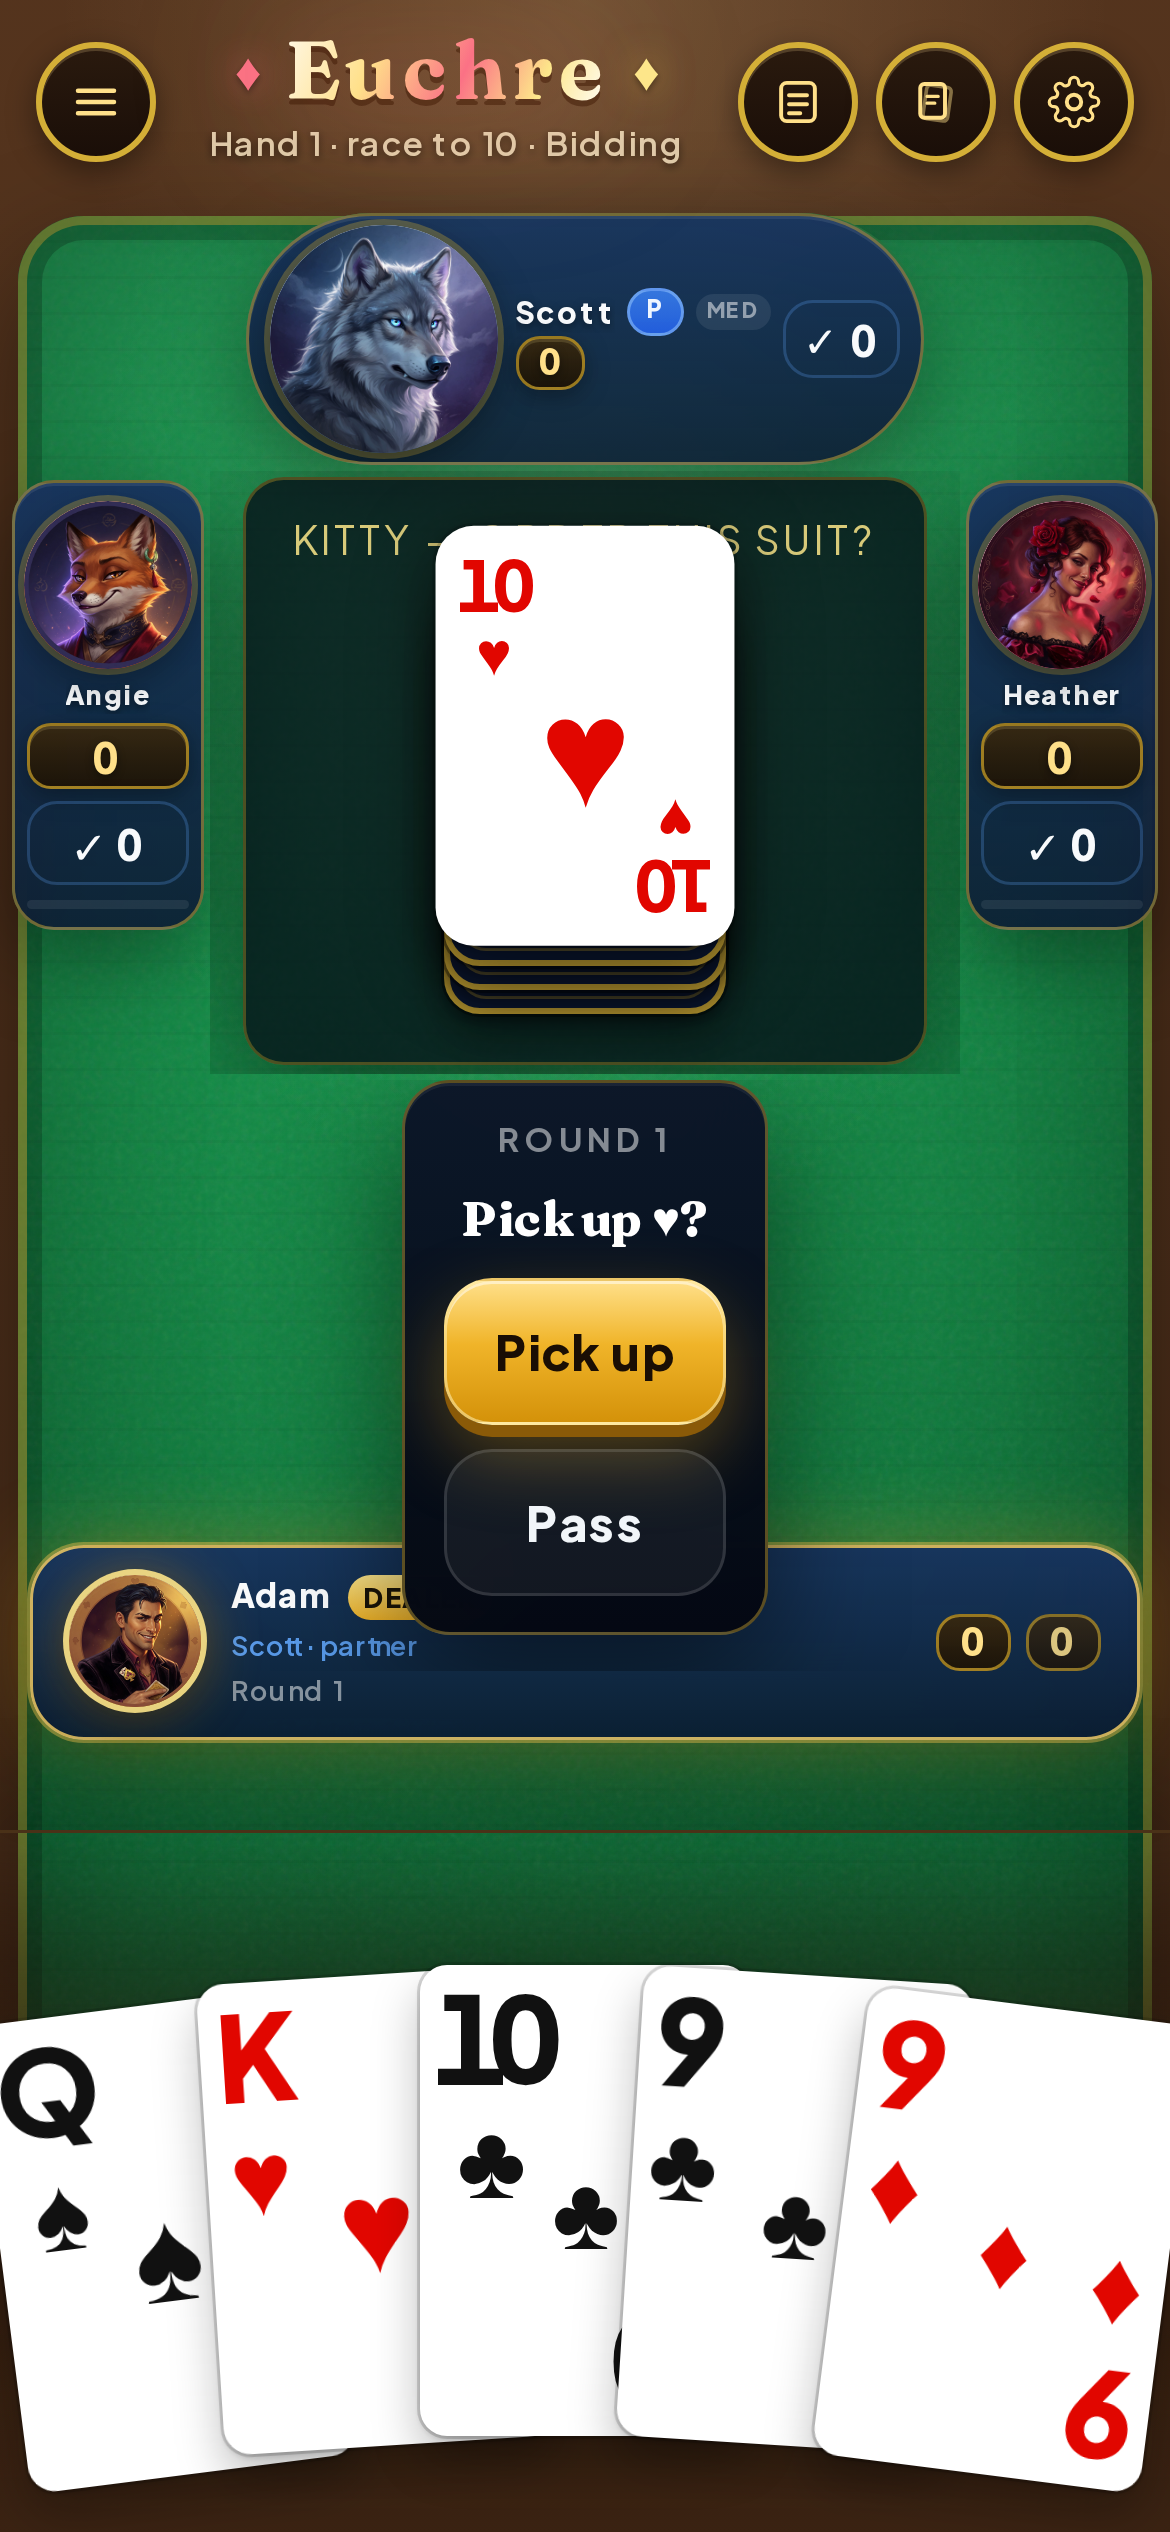
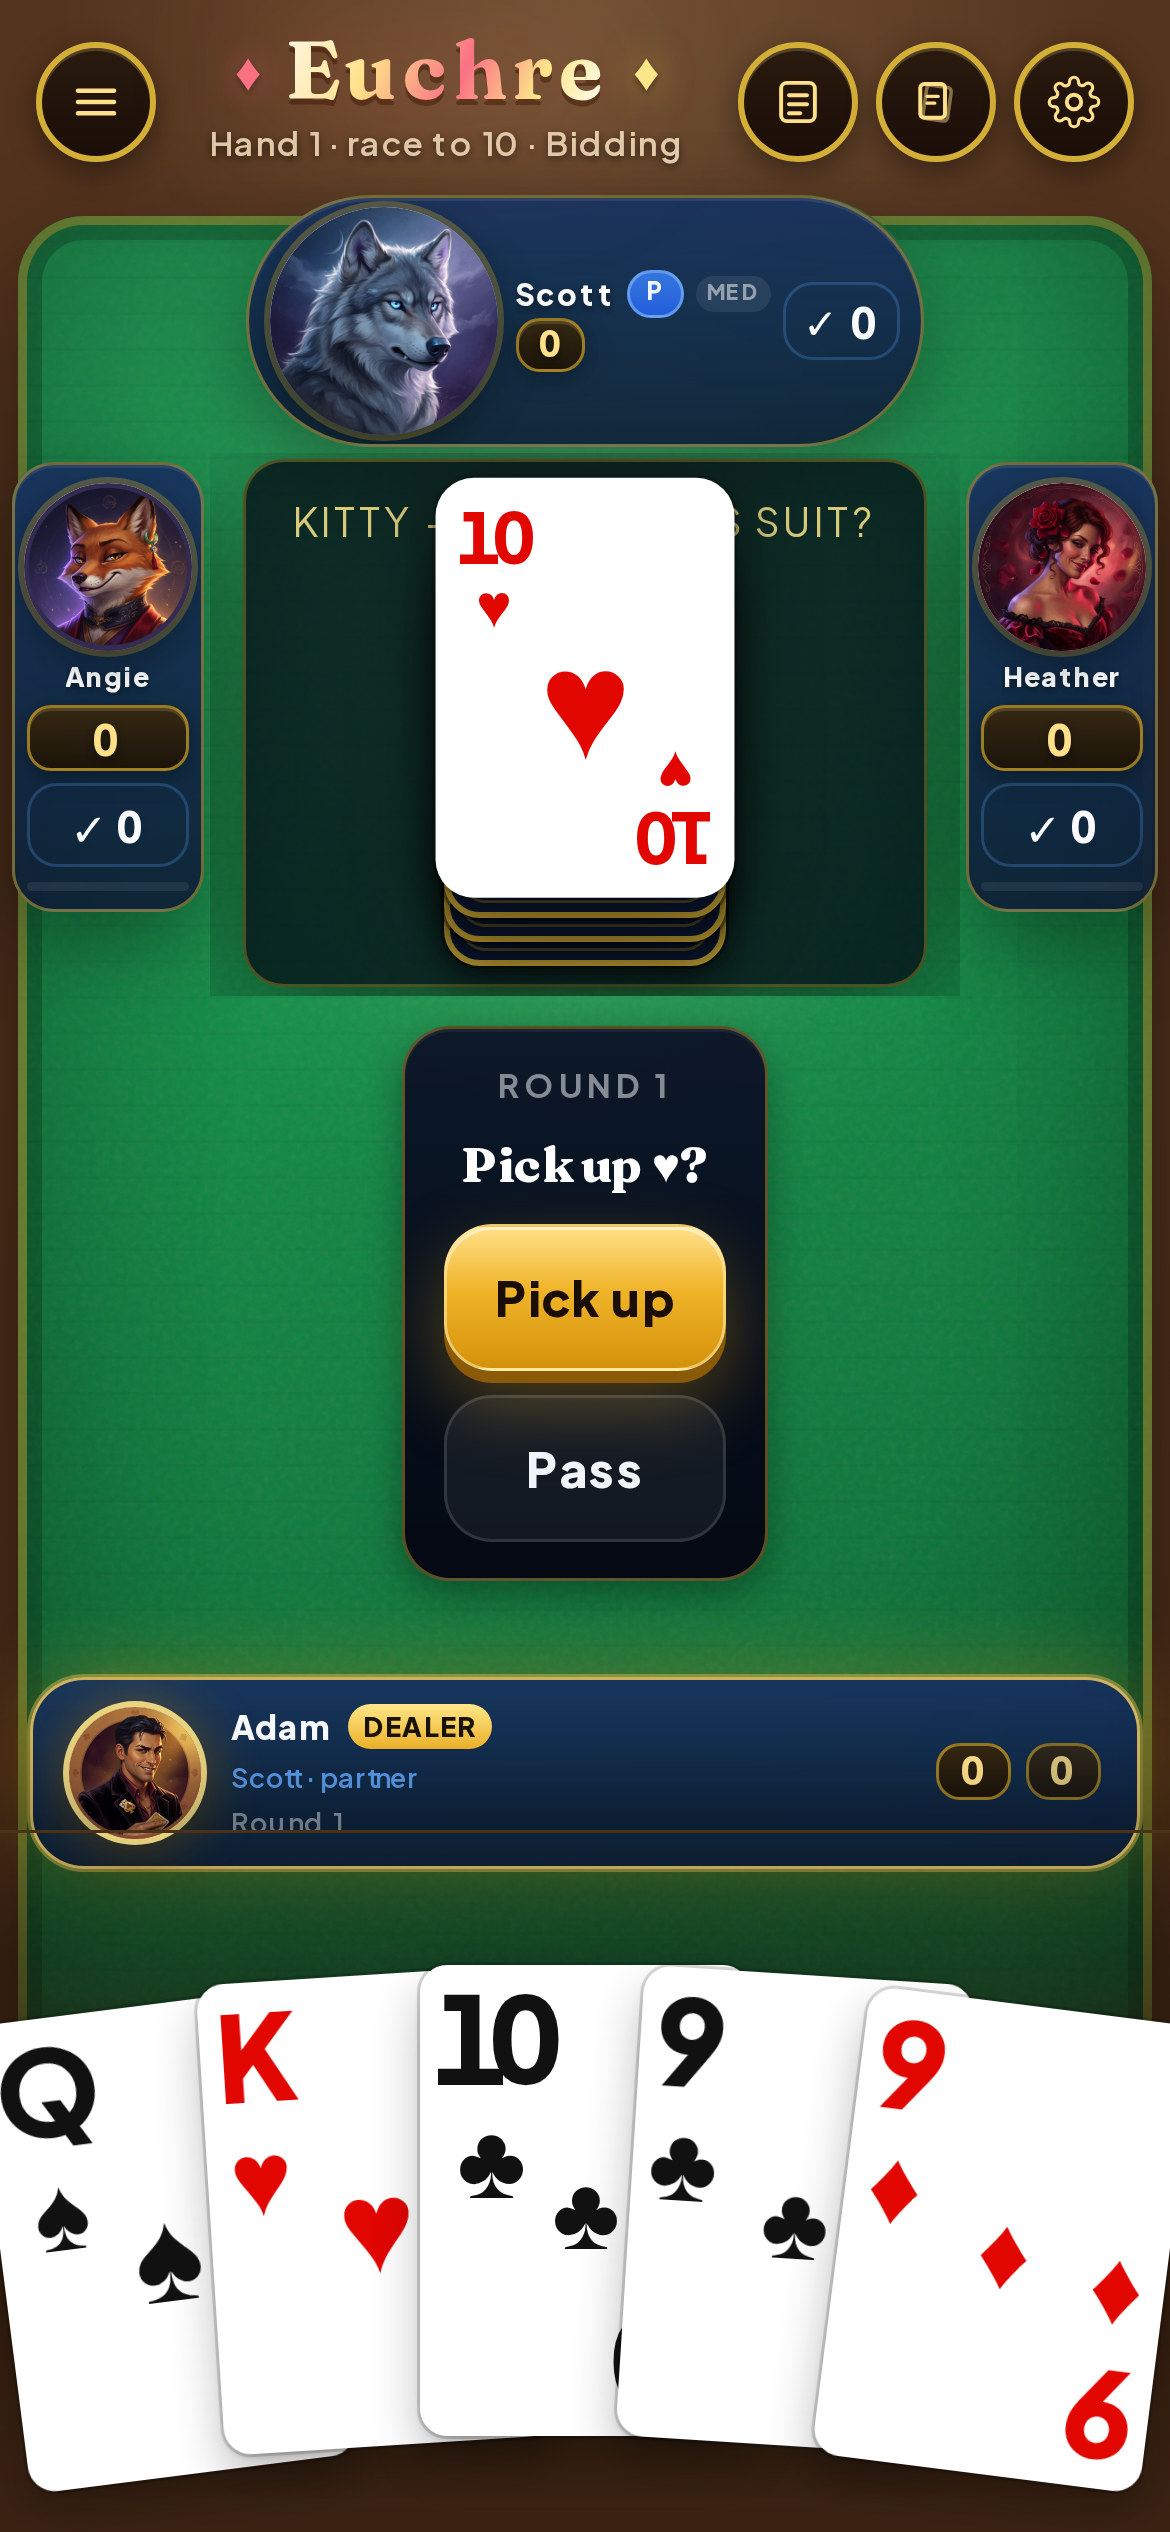
Keep kitty clear of the bid sheet and refresh 0.3.52 shots.
Shrink kitty chrome on short phones so the upcard stays fully above Pick up / Pass, and replace the 390/430 bidding PNGs after measuring a 32px felt gap under the sheet.

diff --git a/src/components/EuchreTrumpPanel.css b/src/components/EuchreTrumpPanel.css
@@ -511,11 +511,17 @@
   font-size: 16px;
 }
 
-/* 390×844 / 430×932: take a little kitty chrome so sheet↔HUD felt fits. */
+/* 390×844 / 430×932: take kitty chrome (not HUD/hand) so sheet↔HUD felt fits. */
 @media (max-height: 860px) {
   .table-screen--euchre-bid .euchre-kitty--center-stage {
     padding: 0.5rem 0.7rem 0.55rem;
     gap: 0.4rem;
+  }
+
+  .table-screen--euchre-bid .euchre-kitty--center-stage .euchre-kitty__stack,
+  .table-screen--euchre-bid .euchre-kitty--active .euchre-kitty__stack {
+    width: clamp(82px, 18vw, 118px);
+    height: clamp(122px, 27vw, 172px);
   }
 }
 

diff --git a/src/components/EuchreTable.css b/src/components/EuchreTable.css
@@ -27,7 +27,7 @@
    * Stage + south are min-content so the Pick up sheet cannot collapse
    * onto the DEALER HUD. Center (kitty) absorbs leftover height.
    */
-  grid-template-rows: auto minmax(0, 1fr) min-content min-content;
+  grid-template-rows: auto minmax(min-content, 1fr) min-content min-content;
   grid-template-areas:
     'north north north'
     'west center east'
@@ -417,6 +417,7 @@
  */
 .table-screen--euchre-bid .euchre-table-stage {
   margin: 0 auto;
+  padding-top: 8px;
   padding-bottom: 16px;
   min-height: min-content;
   box-sizing: border-box;
